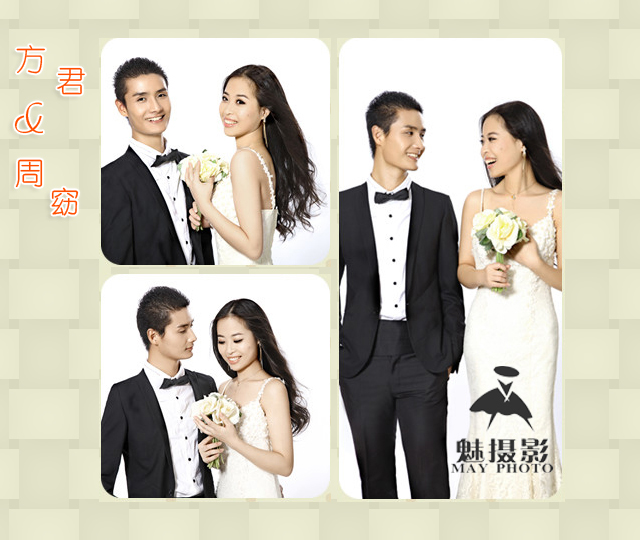
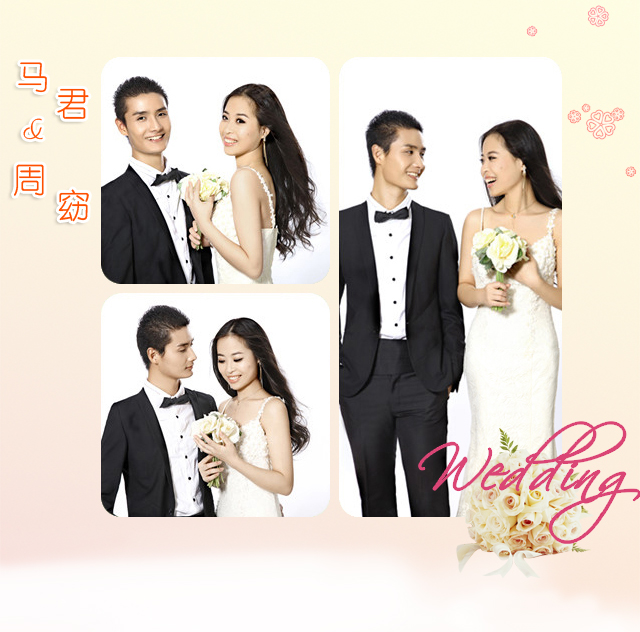
m

diff --git a/public/wedding/fz/index.html b/public/wedding/fz/index.html
@@ -18,8 +18,8 @@ a{text-decoration:none;}
 .ml10{margin-left:10px;}
 .main{width:100%;overflow:hidden;}
 .box1{display:block;overflow:hidden;background-color:#FFFDE3;margin-top:0;color:#5E5E5E;font-size:14px;}
-.plane1{padding:10px 0;overflow:hidden;background-color:#fff;border:1px solid #F2EFBE;}
-.btn1{width:126px;height:46px;line-height:46px;text-align:center;background:url(images/btn1.png) left top no-repeat;display:inline-block;font-size:14px;font-weight:bold;color:#ffffff;}
+.plane1{padding:10px 0;overflow:hidden;background-color:#fff;}
+.btn1{width:126px;height:46px;line-height:46px;text-align:center;background:url(/wedding/fz/images/btn1.png) left top no-repeat;display:inline-block;font-size:14px;font-weight:bold;color:#ffffff;}
 ul{display:block;overflow:hidden;padding:0 15px 0 20px;margin:0 0 0 10px;}
 li{list-style-position: outside;list-style-type: decimal;line-height:25px;}
 </style>
@@ -34,7 +34,7 @@ li{list-style-position: outside;list-style-type: decimal;line-height:25px;}
 				<a href="https://itunes.apple.com/cn/app/lianlian/id577710538" class="btn1 ml10">下载 iPhone 版</a></center>
 				<ul>
 					<li>“定位”界面, 拨动滚轮至最下方, 点击“搜索”</li>
-					<li>输入"君窈方周", 密码"0908", 进入获取婚礼相关信息</li>
+					<li>输入"君窈方舟", 密码"0908", 进入获取婚礼相关信息</li>
 					<li>请留下你的祝福, 婚礼现场还可以一起拍照记录我们的精彩瞬间, 届时更有惊喜相送哦~</li>
 				</ul>
 			</div>
